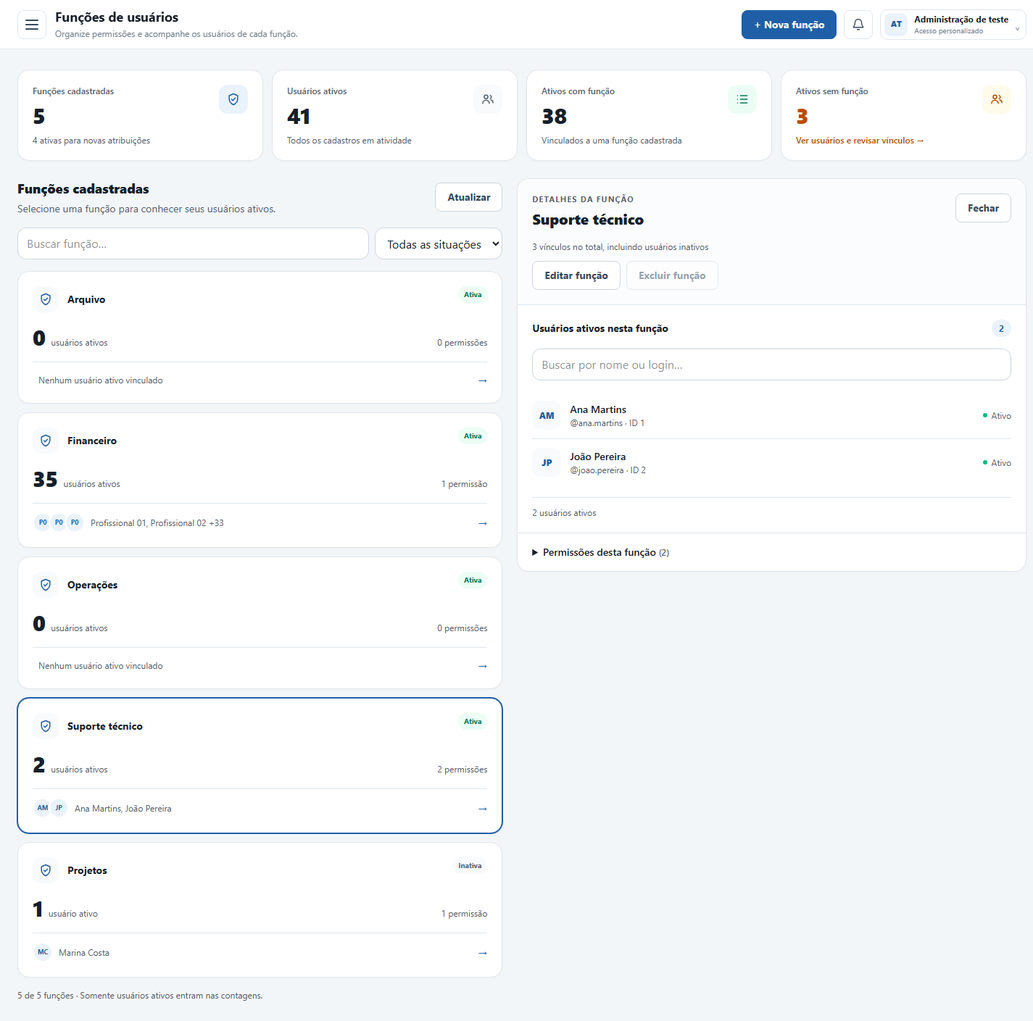
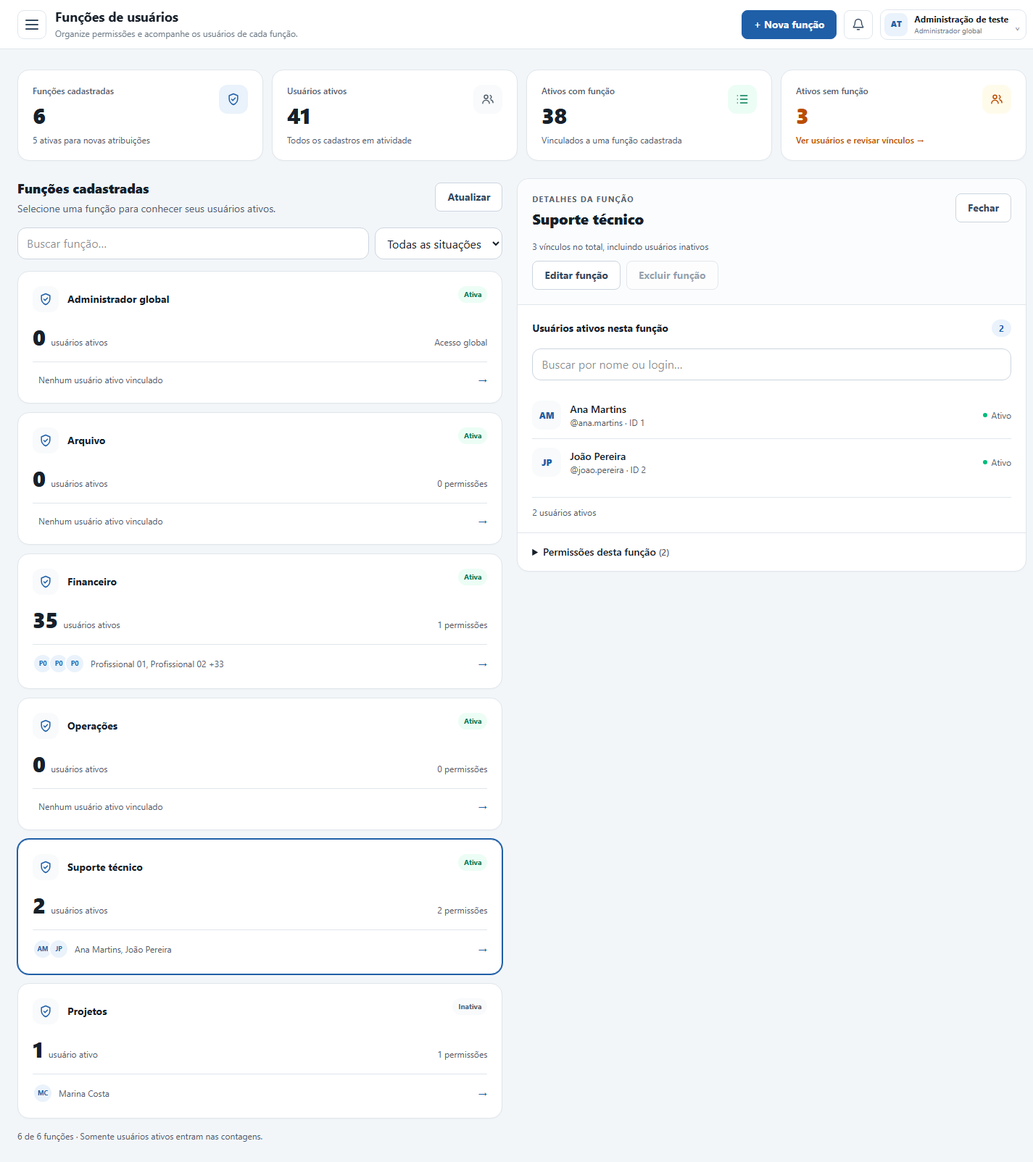
feat(users): reserve user administration for global administrators

diff --git a/apps/web/src/modules/users/components/user-functions-screen.tsx b/apps/web/src/modules/users/components/user-functions-screen.tsx
@@ -69,7 +69,7 @@ export function UserFunctionsScreen({ currentUser }: { currentUser: CurrentUserR
     setEditor(null); setSelection(result.id); await reload();
   }
   async function remove(target: UserFunctionSummary) {
-    if (target.activeUserCount > 0) return;
+    if (target.isGlobalAdmin || target.activeUserCount > 0) return;
     const note = target.linkedUserCount > 0 ? ` Os ${target.linkedUserCount} cadastros vinculados serão preservados e ficarão sem função.` : '';
     if (!window.confirm(`Excluir a função "${target.name}"?${note}`)) return;
     setDeleting(true); setError('');
@@ -101,7 +101,7 @@ export function UserFunctionsScreen({ currentUser }: { currentUser: CurrentUserR
             const users = membersByFunction.get(item.id) ?? [], active = selection === item.id;
             return <button type="button" key={item.id} aria-pressed={active} onClick={() => setSelection(active ? null : item.id)} className={`${CARD} group min-w-0 p-5 text-left transition hover:border-app-brand hover:shadow-md focus-visible:outline-2 focus-visible:outline-offset-2 focus-visible:outline-app-brand ${active ? 'border-app-brand bg-app-brand-soft ring-1 ring-app-brand' : ''}`}>
               <span className="flex items-start justify-between gap-3"><span className="flex min-w-0 items-center gap-3"><span className="rounded-xl bg-app-surface-muted p-2 text-app-brand"><NavigationIcon name="shield" className="size-5" /></span><strong className="break-words text-sm font-bold">{item.name}</strong></span><span className={`shrink-0 rounded-full px-2 py-1 text-[10px] font-bold ${item.status === 1 ? 'bg-emerald-50 text-emerald-700 dark:bg-emerald-950/50 dark:text-emerald-300' : 'bg-app-surface-muted text-app-muted'}`}>{item.status === 1 ? 'Ativa' : 'Inativa'}</span></span>
-              <span className="mt-4 flex items-baseline gap-2"><strong className="text-3xl font-extrabold tracking-tight">{users.length}</strong><span className="text-xs text-app-muted">{users.length === 1 ? 'usuário ativo' : 'usuários ativos'}</span><span className="ml-auto text-xs text-app-muted">{item.permissionIds.length} {item.permissionIds.length === 1 ? 'permissão' : 'permissões'}</span></span>
+              <span className="mt-4 flex items-baseline gap-2"><strong className="text-3xl font-extrabold tracking-tight">{users.length}</strong><span className="text-xs text-app-muted">{users.length === 1 ? 'usuário ativo' : 'usuários ativos'}</span><span className="ml-auto text-xs text-app-muted">{item.isGlobalAdmin ? 'Acesso global' : `${item.permissionIds.length} permissões`}</span></span>
               <span className="mt-4 flex items-center gap-2 border-t border-app-border pt-3"><span className="flex -space-x-1.5" aria-hidden>{users.slice(0, 3).map(user => <span key={user.id} className="flex size-7 items-center justify-center rounded-full border-2 border-app-surface bg-app-brand-soft text-[9px] font-bold text-app-brand">{userInitials(user.name)}</span>)}</span><span className="min-w-0 flex-1 truncate text-xs text-app-muted">{users.length ? users.slice(0, 2).map(user => user.name).join(', ') + (users.length > 2 ? ` +${users.length - 2}` : '') : 'Nenhum usuário ativo vinculado'}</span><span className="text-app-brand" aria-hidden>→</span></span>
             </button>;
           })}</div>
@@ -111,11 +111,12 @@ export function UserFunctionsScreen({ currentUser }: { currentUser: CurrentUserR
 
         {hasDetails ? <section className={`${CARD} min-w-0 overflow-hidden`} aria-labelledby="function-details-title">
           <header className="border-b border-app-border bg-app-surface-muted/50 p-5"><div className="flex items-start justify-between gap-3"><div><p className="mb-1 mt-0 text-[11px] font-bold uppercase tracking-widest text-app-muted">{isUnassigned ? 'Revisão de cadastros' : 'Detalhes da função'}</p><h2 id="function-details-title" className="m-0 break-words text-xl font-extrabold">{isUnassigned ? 'Usuários sem função' : selected?.name}</h2></div><button type="button" className={SECONDARY} aria-label="Fechar detalhes da função" onClick={() => setSelection(null)}>Fechar</button></div>
-            {selected ? <div className="mt-4 grid gap-3"><span className="text-xs text-app-muted">{selected.linkedUserCount} vínculos no total, incluindo usuários inativos</span><div className="flex flex-wrap gap-2"><button type="button" className={SECONDARY} disabled={loading || deleting} onClick={() => { setEditor(selected.id); setSuccess(''); }}>Editar função</button><button type="button" className={SECONDARY} disabled={loading || deleting || selected.activeUserCount > 0} title={selected.activeUserCount > 0 ? 'Esta função possui usuários ativos.' : 'Excluir a função e preservar os cadastros inativos.'} onClick={() => void remove(selected).catch(reason => setError(functionApiMessage(reason)))}>{deleting ? 'Excluindo…' : 'Excluir função'}</button></div>{selected.activeUserCount === 0 ? <span className="text-xs text-app-muted">Sem usuários ativos: a função pode ser excluída. Os cadastros inativos serão mantidos e ficarão sem função.</span> : null}</div> : null}
+            {selected ? <div className="mt-4 grid gap-3"><span className="text-xs text-app-muted">{selected.linkedUserCount} vínculos no total, incluindo usuários inativos</span><div className="flex flex-wrap gap-2"><button type="button" className={SECONDARY} disabled={loading || deleting || selected.isGlobalAdmin} onClick={() => { setEditor(selected.id); setSuccess(''); }}>Editar função</button><button type="button" className={SECONDARY} disabled={loading || deleting || selected.isGlobalAdmin || selected.activeUserCount > 0} title={selected.activeUserCount > 0 ? 'Esta função possui usuários ativos.' : 'Excluir a função e preservar os cadastros inativos.'} onClick={() => void remove(selected).catch(reason => setError(functionApiMessage(reason)))}>{deleting ? 'Excluindo…' : 'Excluir função'}</button></div>{selected.activeUserCount === 0 && !selected.isGlobalAdmin ? <span className="text-xs text-app-muted">Sem usuários ativos: a função pode ser excluída. Os cadastros inativos serão mantidos e ficarão sem função.</span> : null}</div> : null}
             {selected?.status === 2 ? <p className="mb-0 mt-3 text-xs text-app-muted">Esta função está inativa, mas mantém os usuários já vinculados.</p> : null}
+            {selected?.isGlobalAdmin ? <p className="mb-0 mt-3 text-sm text-app-muted">Função protegida com acesso global ao sistema. Somente seus administradores podem cadastrar, editar e desativar usuários. Gerencie os vínculos na página de usuários.</p> : null}
           </header>
           <div className="p-5"><UserFunctionMembers key={String(selection)} users={selectedMembers} unassigned={isUnassigned} /></div>
-          {selected ? <details className="border-t border-app-border"><summary className="cursor-pointer px-5 py-4 text-sm font-semibold">Permissões desta função <span className="text-xs text-app-muted">({selected.permissionIds.length})</span></summary><ul className="m-0 grid list-none gap-2 px-5 pb-5">{selectedPermissions.map(permission => <li key={permission.id} className="rounded-lg bg-app-surface-muted p-3 text-sm"><strong className="font-semibold">{permission.name}</strong><span className="mt-1 block text-xs text-app-muted">{permission.module}</span></li>)}{!selectedPermissions.length ? <li className="text-sm text-app-muted">Nenhuma permissão configurada.</li> : null}</ul></details> : null}
+          {selected && !selected.isGlobalAdmin ? <details className="border-t border-app-border"><summary className="cursor-pointer px-5 py-4 text-sm font-semibold">Permissões desta função <span className="text-xs text-app-muted">({selected.permissionIds.length})</span></summary><ul className="m-0 grid list-none gap-2 px-5 pb-5">{selectedPermissions.map(permission => <li key={permission.id} className="rounded-lg bg-app-surface-muted p-3 text-sm"><strong className="font-semibold">{permission.name}</strong><span className="mt-1 block text-xs text-app-muted">{permission.module}</span></li>)}{!selectedPermissions.length ? <li className="text-sm text-app-muted">Nenhuma permissão configurada.</li> : null}</ul></details> : null}
         </section> : null}
       </div>
     </div>

diff --git a/apps/api/src/modules/users/infrastructure/users.repository.ts b/apps/api/src/modules/users/infrastructure/users.repository.ts
@@ -1,4 +1,4 @@
-import { Inject, Injectable, NotFoundException } from '@nestjs/common';
+import { ConflictException, ForbiddenException, Inject, Injectable, NotFoundException } from '@nestjs/common';
 import type {
   AccessPermissionItem,
   CreateManagedUserRequest,
@@ -278,6 +278,7 @@ export class UsersRepository {
   ): Promise<number> {
     return this.database.$transaction(async (transaction) => {
       await this.assertFunctionExists(transaction, input.functionId);
+      await this.lockGlobalAdministration(transaction, assignedBy);
       const ids = await transaction.$queryRawUnsafe<InsertIdRow[]>(
         `INSERT INTO usuarios
           (user_sts, user_nome, user_mail, user_cel, user_funcao, user_login,
@@ -289,6 +290,7 @@ export class UsersRepository {
         input.pixKey ?? '', input.observation ?? '',
       );
       const id = Number(ids[0]?.id);
+      await this.syncGlobalAdminRole(transaction, id, input.functionId, assignedBy);
       await this.replaceCompanies(transaction, id, input.companyIds ?? []);
       if (canManageAccess) {
         await this.replaceExtraPermissions(transaction, id, input.extraPermissionIds ?? [], assignedBy, input.functionId);
@@ -305,6 +307,9 @@ export class UsersRepository {
   ): Promise<boolean> {
     return this.database.$transaction(async (transaction) => {
       await this.assertFunctionExists(transaction, input.functionId);
+      await this.lockGlobalAdministration(transaction, assignedBy);
+      const globalFunction = await this.isGlobalFunction(transaction, input.functionId);
+      if (input.status !== 1 || !globalFunction) await this.assertAnotherGlobalAdmin(transaction, id);
       const changed = await transaction.$executeRawUnsafe(
         `UPDATE usuarios SET user_sts = ?, user_nome = ?, user_mail = ?,
           user_cel = ?, user_funcao = ?, user_login = ?, tipo_usuario = ?,
@@ -315,6 +320,7 @@ export class UsersRepository {
         input.pixKey ?? '', input.observation ?? '', id,
       );
       if (changed === 0) return false;
+      await this.syncGlobalAdminRole(transaction, id, input.functionId, assignedBy);
       await this.replaceCompanies(transaction, id, input.companyIds ?? []);
       if (canManageAccess && input.extraPermissionIds !== undefined) {
         await this.replaceExtraPermissions(transaction, id, input.extraPermissionIds, assignedBy, input.functionId);
@@ -330,12 +336,65 @@ export class UsersRepository {
     if (!rows.length) throw new NotFoundException('A função selecionada não existe mais. Atualize o cadastro e escolha outra função.');
   }
 
-  async deactivate(id: number): Promise<boolean> {
-    const changed = await this.database.$executeRawUnsafe(
-      'UPDATE usuarios SET user_sts = 2 WHERE user_id = ? AND user_sts <> 2',
-      id,
+  async deactivate(id: number, actorId: number): Promise<boolean> {
+    return this.database.$transaction(async transaction => {
+      await this.lockGlobalAdministration(transaction, actorId);
+      await this.assertAnotherGlobalAdmin(transaction, id);
+      return (await transaction.$executeRawUnsafe(
+        'UPDATE usuarios SET user_sts = 2 WHERE user_id = ? AND user_sts <> 2', id,
+      )) > 0;
+    });
+  }
+
+  // Serializes administrator changes and rechecks the actor against current database state.
+  private async lockGlobalAdministration(tx: Pick<Nivel3DatabaseClient, '$queryRawUnsafe'>, actorId: number) {
+    await tx.$queryRawUnsafe("SELECT id FROM dbo.roles WITH (UPDLOCK, HOLDLOCK) WHERE slug = 'system-admin'");
+    const actors = await tx.$queryRawUnsafe<Array<{ user_id: number }>>(
+      `SELECT u.user_id FROM dbo.usuarios u LEFT JOIN dbo.cargos_n3 c ON c.cargo_id = u.user_funcao
+       WHERE u.user_id = @P1 AND u.user_sts = 1 AND
+       ((c.is_global_admin = 1 AND c.cargo_sts = 1) OR EXISTS
+        (SELECT 1 FROM dbo.user_roles ur JOIN dbo.roles r ON r.id = ur.role_id
+         WHERE ur.user_id = u.user_id AND r.slug = 'system-admin'))`, actorId,
     );
-    return changed > 0;
+    if (!actors.length) throw new ForbiddenException('Somente administradores globais podem gerenciar usuários.');
+  }
+
+  private async isGlobalFunction(tx: Pick<Nivel3DatabaseClient, '$queryRawUnsafe'>, functionId: number) {
+    const rows = await tx.$queryRawUnsafe<Array<{ is_global_admin: boolean }>>(
+      'SELECT is_global_admin FROM dbo.cargos_n3 WHERE cargo_id = @P1 AND cargo_sts = 1', functionId,
+    );
+    return Boolean(rows[0]?.is_global_admin);
+  }
+
+  private async assertAnotherGlobalAdmin(tx: Pick<Nivel3DatabaseClient, '$queryRawUnsafe'>, excludedId: number) {
+    const rows = await tx.$queryRawUnsafe<Array<{ user_id: number }>>(
+      `SELECT TOP (1) u.user_id FROM dbo.usuarios u
+       LEFT JOIN dbo.cargos_n3 c ON c.cargo_id = u.user_funcao
+       WHERE u.user_sts = 1 AND u.user_id <> @P1 AND
+       ((c.is_global_admin = 1 AND c.cargo_sts = 1) OR EXISTS
+        (SELECT 1 FROM dbo.user_roles ur JOIN dbo.roles r ON r.id = ur.role_id
+         WHERE ur.user_id = u.user_id AND r.slug = 'system-admin'))`, excludedId,
+    );
+    if (!rows.length) throw new ConflictException('Mantenha pelo menos um administrador global ativo.');
+  }
+
+  private async syncGlobalAdminRole(
+    tx: Pick<Nivel3DatabaseClient, '$queryRawUnsafe' | '$executeRawUnsafe'>,
+    userId: number, functionId: number, actorId: number,
+  ) {
+    if (await this.isGlobalFunction(tx, functionId)) {
+      await tx.$executeRawUnsafe(
+        `INSERT INTO dbo.user_roles (user_id, role_id, assigned_by)
+         SELECT @P1, r.id, @P2 FROM dbo.roles r WHERE r.slug = 'system-admin'
+         AND NOT EXISTS (SELECT 1 FROM dbo.user_roles ur WHERE ur.user_id = @P1 AND ur.role_id = r.id)`,
+        userId, actorId,
+      );
+    } else {
+      await tx.$executeRawUnsafe(
+        `DELETE ur FROM dbo.user_roles ur JOIN dbo.roles r ON r.id = ur.role_id
+         WHERE ur.user_id = @P1 AND r.slug = 'system-admin'`, userId,
+      );
+    }
   }
 
   private async companiesByUserIds(ids: number[]): Promise<Map<number, UserOption[]>> {

diff --git a/apps/api/src/modules/users/infrastructure/user-functions.repository.ts b/apps/api/src/modules/users/infrastructure/user-functions.repository.ts
@@ -11,6 +11,7 @@ import { NIVEL3_DATABASE } from '../../../core/database/database.constants';
 
 type FunctionRow = {
   id: number | bigint;
+  is_global_admin: boolean;
   name: string | null;
   status: number | null;
   active_user_count: number | bigint;
@@ -47,13 +48,14 @@ export class UserFunctionsRepository {
   async list(): Promise<UserFunctionSummary[]> {
     const rows = await this.database.$queryRawUnsafe<FunctionRow[]>(
       `SELECT c.cargo_id AS id,
+              c.is_global_admin,
               c.cargo_nome AS name,
               c.cargo_sts AS status,
               SUM(CASE WHEN u.user_sts = 1 THEN 1 ELSE 0 END) AS active_user_count,
               COUNT(u.user_id) AS linked_user_count
        FROM cargos_n3 c
        LEFT JOIN usuarios u ON u.user_funcao = c.cargo_id
-       GROUP BY c.cargo_id, c.cargo_nome, c.cargo_sts
+       GROUP BY c.cargo_id, c.cargo_nome, c.cargo_sts, c.is_global_admin
        ORDER BY c.cargo_sts DESC, c.cargo_nome ASC, c.cargo_id ASC`,
     );
 
@@ -71,6 +73,7 @@ export class UserFunctionsRepository {
     }
     return rows.map((row) => ({
       id: Number(row.id),
+      isGlobalAdmin: Boolean(row.is_global_admin),
       name: row.name?.trim() || `Função #${Number(row.id)}`,
       status: row.status === 1 ? 1 : 2,
       activeUserCount: Number(row.active_user_count ?? 0),
@@ -103,9 +106,9 @@ export class UserFunctionsRepository {
   }
 
   async update(id: number, input: UserFunctionInput): Promise<UserFunctionMutationResponse> {
-    await this.assertExists(id);
     await this.assertNameAvailable(input.name, id);
     await this.database.$transaction(async (transaction) => {
+      await this.assertEditable(transaction, id);
       await transaction.$executeRawUnsafe(
         'UPDATE cargos_n3 SET cargo_nome = ?, cargo_sts = ? WHERE cargo_id = ?', input.name, input.status, id,
       );
@@ -116,10 +119,7 @@ export class UserFunctionsRepository {
 
   async remove(id: number): Promise<void> {
     await this.database.$transaction(async (transaction) => {
-      const functions = await transaction.$queryRawUnsafe<IdRow[]>(
-        'SELECT cargo_id AS id FROM dbo.cargos_n3 WITH (XLOCK, HOLDLOCK) WHERE cargo_id = @P1', id,
-      );
-      if (!functions[0]) throw new NotFoundException('Função de usuário não encontrada.');
+      await this.assertEditable(transaction, id);
       const users = await transaction.$queryRawUnsafe<Array<{ user_sts: number | null }>>(
         'SELECT user_sts FROM dbo.usuarios WITH (UPDLOCK, HOLDLOCK) WHERE user_funcao = @P1', id,
       );
@@ -134,12 +134,13 @@ export class UserFunctionsRepository {
     });
   }
 
-  private async assertExists(id: number): Promise<void> {
-    const rows = await this.database.$queryRawUnsafe<IdRow[]>(
-      'SELECT cargo_id AS id FROM cargos_n3 WHERE cargo_id = ? LIMIT 1',
+  private async assertEditable(transaction: Pick<Nivel3DatabaseClient, '$queryRawUnsafe'>, id: number): Promise<void> {
+    const rows = await transaction.$queryRawUnsafe<Array<{ id: number; is_global_admin: boolean }>>(
+      'SELECT cargo_id AS id, is_global_admin FROM dbo.cargos_n3 WITH (XLOCK, HOLDLOCK) WHERE cargo_id = @P1',
       id,
     );
     if (!rows[0]) throw new NotFoundException('Função de usuário não encontrada.');
+    if (rows[0].is_global_admin) throw new ConflictException('A função Administrador global é protegida e não pode ser alterada ou excluída.');
   }
 
   private async assertNameAvailable(name: string, ignoredId?: number): Promise<void> {

diff --git a/apps/web/src/modules/users/components/users-screen.tsx b/apps/web/src/modules/users/components/users-screen.tsx
@@ -131,9 +131,9 @@ export function UsersScreen({ currentUser }: { currentUser: CurrentUserResponse 
   const [error, setError] = useState<string | null>(null);
   const [success, setSuccess] = useState<string | null>(null);
   const [companyQuery, setCompanyQuery] = useState('');
-  const canCreate = can(currentUser, AppPermission.UsersCreate);
-  const canEdit = can(currentUser, AppPermission.UsersEdit);
-  const canSetExtras = can(currentUser, AppPermission.UsersManageOverrides);
+  const canCreate = can(currentUser, AppPermission.SystemAdmin);
+  const canEdit = canCreate;
+  const canSetExtras = canCreate;
 
   async function load(signal?: AbortSignal) {
     setLoading(true);
@@ -167,7 +167,7 @@ export function UsersScreen({ currentUser }: { currentUser: CurrentUserResponse 
     return () => controller.abort();
   }, [page, appliedSearch, statusFilter, functionFilter]);
 
-  const title = selectedId ? `Editar usuário #${selectedId}` : 'Novo usuário';
+  const title = selectedId ? `${canEdit ? 'Editar' : 'Consultar'} usuário #${selectedId}` : canCreate ? 'Novo usuário' : 'Consulta de usuários';
   const visibleCompanies = useMemo(() => {
     const query = companyQuery.trim().toLocaleLowerCase('pt-BR');
     const companies = catalogs?.companies ?? [];
@@ -277,6 +277,7 @@ export function UsersScreen({ currentUser }: { currentUser: CurrentUserResponse 
 
           <section className={styles.editor}>
             <h2>{title}</h2>
+            <p>Somente administradores globais podem cadastrar, editar ou desativar usuários. Para conceder esse acesso, selecione a função Administrador global.</p>
             {!selectedId && !canCreate ? <p>Selecione um usuário para consultar.</p> : (
               <form onSubmit={save}>
                 <div className={styles.grid}>

diff --git a/apps/api/src/modules/access/application/rbac-permission-translator.ts b/apps/api/src/modules/access/application/rbac-permission-translator.ts
@@ -9,8 +9,6 @@ import type { RbacAccessSnapshot } from '../domain/rbac-access-snapshot';
 
 const P = {
   usersRead: 'usuarios.visualizar',
-  usersCreate: 'usuarios.criar',
-  usersManageOverrides: 'usuarios.permissoes_extras',
 
   ticketsRead: 'atendimentos.visualizar',
   ticketsCreate: 'atendimentos.criar',
@@ -77,11 +75,12 @@ export function translateRbacAccess(
   const permissions = snapshot.permissionSlugs;
   const grants: PermissionGrant[] = [];
   const has = (slug: string) => permissions.has(slug);
+  const isGlobalAdmin = snapshot.roleSlugs.includes(SYSTEM_ADMIN_ROLE);
 
   addGrant(
     grants,
     AppPermission.SystemAdmin,
-    snapshot.roleSlugs.includes(SYSTEM_ADMIN_ROLE),
+    isGlobalAdmin,
   );
   addGrant(grants, AppPermission.OnCallTi, snapshot.onCallAreas.includes('ti'));
   addGrant(
@@ -91,12 +90,12 @@ export function translateRbacAccess(
   );
 
   addGrant(grants, AppPermission.UsersRead, has(P.usersRead));
-  addGrant(grants, AppPermission.UsersCreate, has(P.usersCreate));
-  addGrant(grants, AppPermission.UsersEdit, has(P.usersCreate));
+  addGrant(grants, AppPermission.UsersCreate, isGlobalAdmin);
+  addGrant(grants, AppPermission.UsersEdit, isGlobalAdmin);
   addGrant(
     grants,
     AppPermission.UsersManageOverrides,
-    has(P.usersManageOverrides),
+    isGlobalAdmin,
   );
 
   addGrant(

diff --git a/apps/api/src/modules/users/presentation/http/users.controller.ts b/apps/api/src/modules/users/presentation/http/users.controller.ts
@@ -164,7 +164,7 @@ export class UsersController {
   detail(@Param('id', ParseIntPipe) id: number): Promise<ManagedUserDetail> { return this.management.detail(id); }
 
   @Post()
-  @RequirePermissions(AppPermission.UsersCreate)
+  @RequirePermissions(AppPermission.SystemAdmin)
   @ApiOperation({ summary: 'Cadastrar usuário' })
   @ApiResponse({ status: 201, description: 'Usuário cadastrado.' })
   create(
@@ -184,7 +184,7 @@ export class UsersController {
   }
 
   @Patch(':id')
-  @RequirePermissions(AppPermission.UsersEdit)
+  @RequirePermissions(AppPermission.SystemAdmin)
   @ApiOperation({ summary: 'Atualizar usuário' })
   update(
     @Param('id', ParseIntPipe) id: number,
@@ -204,7 +204,7 @@ export class UsersController {
   }
 
   @Delete(':id')
-  @RequirePermissions(AppPermission.UsersEdit)
+  @RequirePermissions(AppPermission.SystemAdmin)
   @HttpCode(HttpStatus.NO_CONTENT)
   @ApiOperation({ summary: 'Desativar usuário' })
   async deactivate(

diff --git a/packages/database/src/tools/grant-system-admin.ts b/packages/database/src/tools/grant-system-admin.ts
@@ -100,6 +100,16 @@ async function main() {
           VALUES (${userId}, ${roleId}, NULL)
         `;
       }
+      // Keep the visible function in sync when the new structure is provisioned.
+      const columns = await tx.$queryRawUnsafe<Array<{ present: number }>>(
+        "SELECT CASE WHEN COL_LENGTH('dbo.cargos_n3','is_global_admin') IS NULL THEN 0 ELSE 1 END AS present",
+      );
+      if (columns[0]?.present) {
+        await tx.$executeRawUnsafe(
+          `UPDATE usuarios SET user_funcao = (SELECT cargo_id FROM cargos_n3 WHERE is_global_admin=1 AND cargo_sts=1)
+           WHERE user_id=@P1 AND EXISTS (SELECT 1 FROM cargos_n3 WHERE is_global_admin=1 AND cargo_sts=1)`, userId,
+        );
+      }
     });
 
     console.log('Administrador global configurado com sucesso.');

diff --git a/apps/api/src/modules/access/infrastructure/rbac-access.repository.ts b/apps/api/src/modules/access/infrastructure/rbac-access.repository.ts
@@ -56,7 +56,11 @@ export class RbacAccessRepository {
         INNER JOIN roles r ON r.id = ur.role_id
         WHERE ur.user_id = ${userId}
           AND r.slug = 'system-admin'
-        ORDER BY r.id
+        UNION
+        SELECT 'system-admin' AS slug
+        FROM usuarios u
+        INNER JOIN cargos_n3 c ON c.cargo_id = u.user_funcao
+        WHERE u.user_id = ${userId} AND c.is_global_admin = 1 AND c.cargo_sts = 1
       `,
       this.database.$queryRaw<PermissionRow[]>`
         SELECT DISTINCT p.slug

diff --git a/apps/api/src/modules/users/application/user-management.ts b/apps/api/src/modules/users/application/user-management.ts
@@ -98,7 +98,7 @@ export class UserManagement {
     if (id === 1 || id === actorId) {
       throw new ForbiddenException('O usuário administrador principal e a própria conta não podem ser desativados.');
     }
-    if (!(await this.users.deactivate(id))) {
+    if (!(await this.users.deactivate(id, actorId))) {
       throw new NotFoundException('Usuário não encontrado ou já desativado.');
     }
     await this.sessions.revokeAllForUser(id, 'user_deactivated');

diff --git a/apps/web/src/modules/access/components/session-user-menu.tsx b/apps/web/src/modules/access/components/session-user-menu.tsx
@@ -28,6 +28,7 @@ export function SessionUserMenu({ user }: { user: CurrentUserResponse }) {
   const [error, setError] = useState<string | null>(null);
 
   const roleLabel = useMemo(() => {
+    if (user.grants.some(grant => grant.permission === AppPermission.SystemAdmin)) return 'Administrador global';
     const onCallTi = user.grants.some(
       (grant) => grant.permission === AppPermission.OnCallTi,
     );

diff --git a/packages/contracts/src/users/user.ts b/packages/contracts/src/users/user.ts
@@ -79,6 +79,7 @@ export interface UpdateManagedUserRequest {
 
 export interface UserFunctionSummary {
   id: number;
+  isGlobalAdmin: boolean;
   name: string;
   status: 1 | 2;
   activeUserCount: number;

diff --git a/docs/global-admin.md b/docs/global-admin.md
@@ -1,0 +1,28 @@
+# Administrador global
+
+A função protegida **Administrador global** corresponde ao perfil interno `system-admin` e concede acesso administrativo global. Somente seus integrantes podem cadastrar, editar e desativar usuários, inclusive alterar suas funções e permissões extras. Permissões antigas `usuarios.criar` e `usuarios.permissoes_extras` não autorizam essas operações. A consulta continua disponível com `usuarios.visualizar`. A troca da própria senha segue o fluxo de autenticação existente.
+
+## Implantação
+
+1. Compilar com `pnpm build`.
+2. Executar explicitamente `pnpm access:provision-global-admin` antes de reiniciar a API nova.
+3. Executar `pnpm test:global-admin`, `pnpm test:user-functions`, `pnpm test:access` e `pnpm test:user-functions:ui`.
+4. Reiniciar API e frontend com a configuração PM2 do ambiente.
+
+O provisionamento é transacional e idempotente. Adiciona `cargos_n3.is_global_admin` com valor padrão falso e índice único filtrado, cria a função reservada e vincula exclusivamente os usuários que já possuem `system-admin`. A função anterior desses administradores é substituída; as outras funções e contas são preservadas. Nenhum usuário comum recebe acesso global. Sem administrador ativo ou em caso de conflito com um nome existente, a transação é revertida. O comando retorna contagens e ID da função, sem credenciais.
+
+Para conceder acesso, um administrador global edita o usuário e seleciona **Administrador global** no campo Função. Ao escolher outra função, o vínculo `system-admin` é removido na mesma transação. Alterações administrativas são serializadas pelo registro do perfil, a autorização do ator é conferida novamente no banco e a remoção/desativação do último administrador ativo é bloqueada. Cada requisição recalcula o acesso no banco, sem confiar nas permissões antigas do navegador.
+
+A função reservada não pode ser renomeada, desativada, excluída nem ter suas permissões editadas. Não é possível conceder acesso global apenas criando uma função com nome parecido ou enviando campos adicionais ao cadastro comum de funções.
+
+O comando existente `pnpm access:grant-system-admin -- <id>` continua disponível como recuperação operacional e sincroniza a função visível quando provisionada. Seu uso concede acesso global explicitamente ao usuário informado; não faz parte de rotinas automáticas.
+
+Os testes SQL utilizam exclusivamente tabelas temporárias com nomes únicos e transações revertidas. O teste de navegador intercepta todas as chamadas à API e não altera contas reais.
+
+## Validação local — 28/10/2026
+
+- Build completo concluído sem erros.
+- Testes de acesso, segurança, funções e administração global aprovados (16 testes).
+- Teste de concorrência confirmou que duas desativações simultâneas deixam um administrador ativo.
+- Navegador validou função protegida, seleção da função global no cadastro e consulta sem edição mesmo com permissões antigas de escrita. Nenhuma exceção JavaScript.
+- Função provisionada com ID 20, preservando os três administradores globais ativos existentes. Reexecução confirmou idempotência, sem novas reatribuições.
